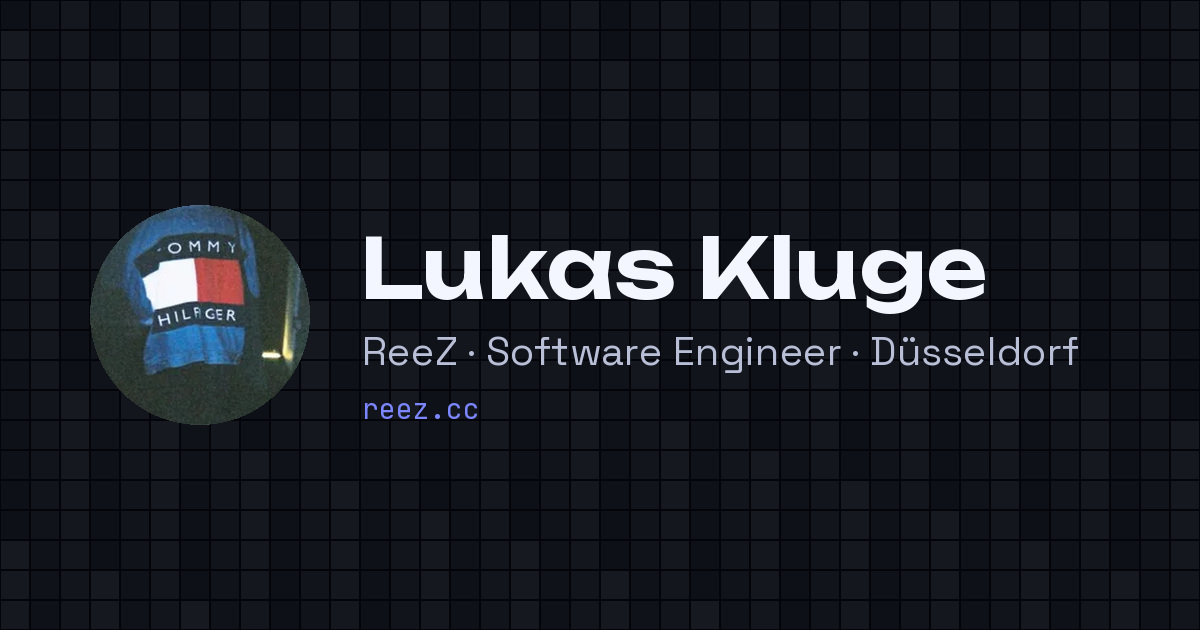
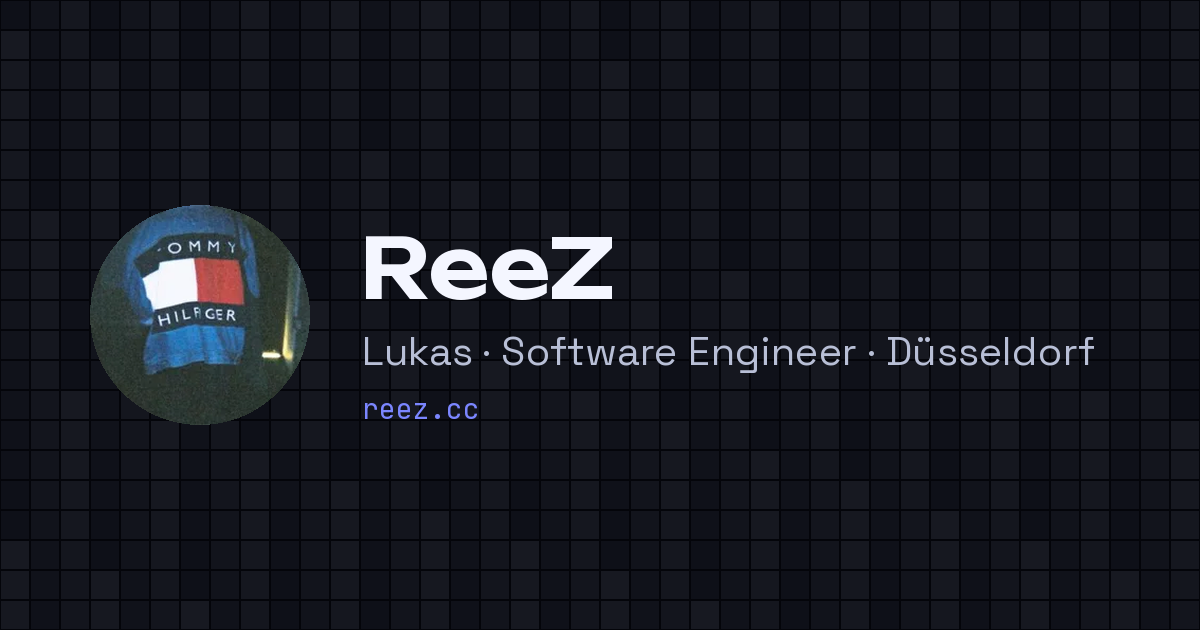
Keep the full name out of the tab title and link preview
Claude-Session: https://claude.ai/code/session_01HR1dqMQmcNQq8jWf91YCgo

Changed region(s): [[0.3083, 0.3619, 0.925, 0.6032]]

diff --git a/index.html b/index.html
@@ -3,8 +3,8 @@
 <head>
   <meta charset="utf-8">
   <meta name="viewport" content="width=device-width, initial-scale=1, viewport-fit=cover">
-  <title>Lukas Kluge (ReeZ) — Software Engineer, Düsseldorf</title>
-  <meta name="description" content="Lukas Kluge, known online as ReeZ: software engineer from Düsseldorf, Germany. Reverse engineering, data mining, clips and games — YouTube, TikTok, Steam, Spotify and Discord in one place.">
+  <title>ReeZ — Lukas</title>
+  <meta name="description" content="ReeZ (Lukas Kluge): software engineer from Düsseldorf, Germany. Reverse engineering, data mining, clips and games — YouTube, TikTok, Steam, Spotify and Discord in one place.">
   <meta name="author" content="Lukas Kluge">
   <meta name="robots" content="index, follow, max-image-preview:large">
   <link rel="canonical" href="https://reez.cc/">
@@ -14,18 +14,18 @@
   <meta property="og:type" content="profile">
   <meta property="og:url" content="https://reez.cc/">
   <meta property="og:site_name" content="reez.cc">
-  <meta property="og:title" content="Lukas Kluge (ReeZ)">
+  <meta property="og:title" content="ReeZ — Lukas">
   <meta property="og:description" content="Software engineer from Düsseldorf. YouTube, TikTok, Steam, Spotify and Discord in one place.">
   <meta property="og:image" content="https://reez.cc/assets/og.png">
   <meta property="og:image:width" content="1200">
   <meta property="og:image:height" content="630">
-  <meta property="og:image:alt" content="Lukas Kluge — ReeZ · Software Engineer · Düsseldorf">
+  <meta property="og:image:alt" content="ReeZ — Lukas · Software Engineer · Düsseldorf">
   <meta property="og:locale" content="en_US">
   <meta property="profile:first_name" content="Lukas">
   <meta property="profile:last_name" content="Kluge">
   <meta property="profile:username" content="ReeZ">
   <meta name="twitter:card" content="summary_large_image">
-  <meta name="twitter:title" content="Lukas Kluge (ReeZ)">
+  <meta name="twitter:title" content="ReeZ — Lukas">
   <meta name="twitter:image" content="https://reez.cc/assets/og.png">
 
   <!-- Structured data: tells search engines and AI assistants who this page is about -->
